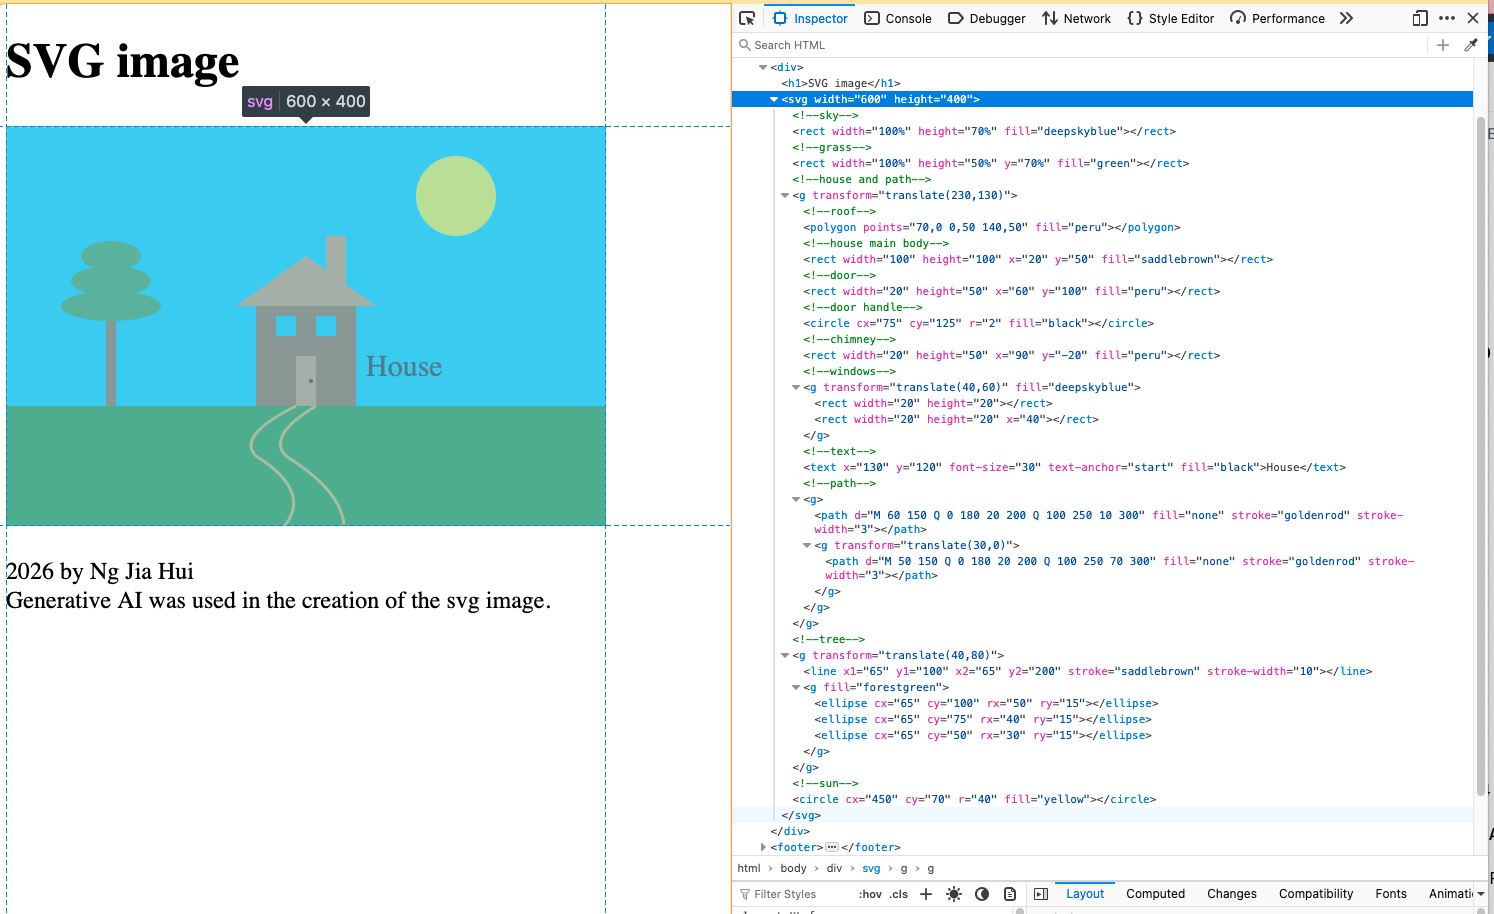
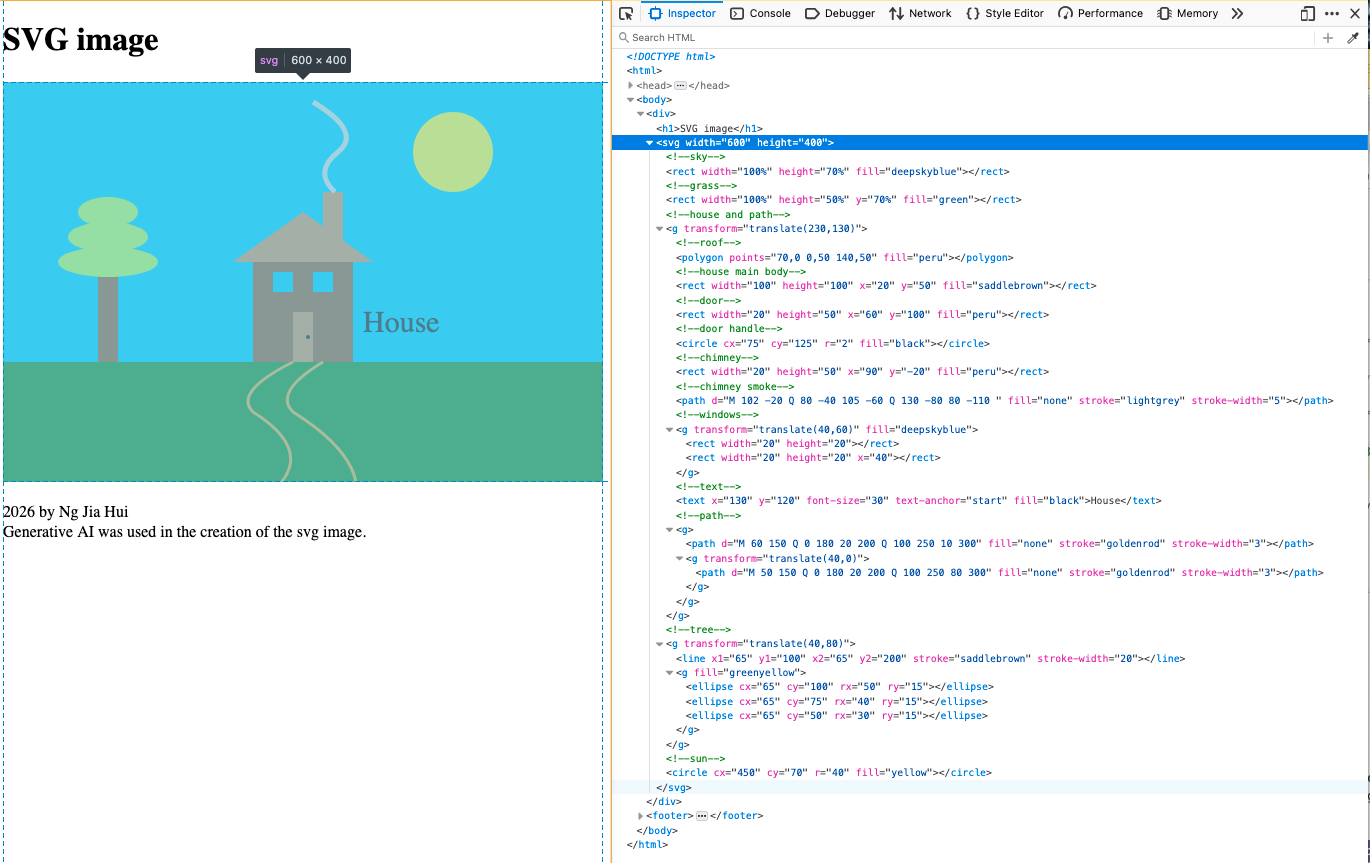
translate windows, add coordinate system and dom

Changed region(s): [[0.0, 0.0, 1.0, 1.0]]

diff --git a/Exercise 4/Exercise 4.1/index.html b/Exercise 4/Exercise 4.1/index.html
@@ -10,6 +10,52 @@
     <body>
         <div>
             <h1>SVG image</h1>
+            <h2>Base:</h2>
+            <svg width="600" height="400">  
+                <!-- sky -->
+                <rect width="100%" height="70%" fill="deepskyblue" />
+                <!-- grass -->
+                <rect width="100%" height="50%" y="70%" fill="green" />
+                <!-- house and path -->
+                <g transform="translate(230,130)">
+                    <!-- roof -->
+                    <polygon points="70,0 0,50 140,50" fill="peru" />
+                    <!-- house main body -->
+                    <rect width="100" height="100" x="20" y="50" fill="saddlebrown" />
+                    <!-- door -->
+                    <rect width="20" height="50" x="60" y="100" fill="peru" />
+                    <!-- door handle -->
+                    <circle cx="75" cy="125" r="2" fill="black" />
+                    <!-- chimney -->
+                    <rect width="20" height="50" x="90" y="-20" fill="peru" />
+                    <!-- windows -->
+                    <g transform="translate(40,60)" fill="deepskyblue">
+                        <rect width="20" height="20"  />
+                        <rect width="20" height="20" x="40" />
+                    </g>
+                    <!-- text -->
+                    <text x="130" y="120" font-size="30" text-anchor="start" fill="black">House</text> 
+                    <!-- path -->
+                    <g>
+                        <path d="M 60 150  Q 0 180 20 200   Q 100 250 10 300" fill="none" stroke="goldenrod" stroke-width="3" />
+                        <g transform="translate(30,0)">
+                            <path d="M 50 150  Q 0 180 20 200   Q 100 250 70 300" fill="none" stroke="goldenrod" stroke-width="3" />
+                        </g>
+                    </g>
+                </g>
+                <!-- tree -->
+                <g transform="translate(40,80)">
+                    <line x1="65" y1="100" x2="65" y2="200" stroke="saddlebrown" stroke-width="10" />
+                    <g fill="forestgreen" >
+                        <ellipse cx="65" cy="100" rx="50" ry="15" />
+                        <ellipse cx="65" cy="75" rx="40" ry="15" />
+                        <ellipse cx="65" cy="50" rx="30" ry="15" />     
+                    </g>
+                </g>
+                <!-- sun -->
+                <circle cx="450" cy="70" r="40" fill="yellow" />
+            </svg>
+            <h2>Customized:</h2>
             <svg width="600" height="400">  
                 <!-- sky -->
                 <rect width="100%" height="70%" fill="deepskyblue" />
@@ -31,7 +77,7 @@
                     <!-- chimney smoke -->
                     <path d="M 102 -20  Q 80 -40 105 -60 Q 130 -80 80 -110   " fill="none" stroke="lightgrey" stroke-width="5" />
                     <!-- windows -->
-                    <g transform="translate(40,60)" fill="deepskyblue">
+                    <g transform="translate(40,70)" fill="deepskyblue">
                         <rect width="20" height="20"  />
                         <rect width="20" height="20" x="40" />
                     </g>
@@ -60,6 +106,28 @@
                 <circle cx="450" cy="70" r="40" fill="yellow" />
 
             </svg>
+        </div>
+        <div>
+            <h2>SVG coordinate system</h2>
+            <p>circle:</p>
+            <img src="images/circle.png" >
+            <p>Ellipse:</p>
+            <img src="images/ellipse.png" >
+            <p>Line:</p>
+            <img src="images/line.png" >
+            <p>path:</p>
+            <img src="images/path.png" >
+            <p>Polygon:</p>
+            <img src="images/polygon.png" >
+            <p>Rectangle:</p>
+            <img src="images/rectangle.png" >
+            <p>Text:</p>
+            <img src="images/text.png" >
+        </div>
+
+        <div>
+            <h2>DOM</h2>
+            <img src="images/dom_screenshot.png" >
         </div>
         
         <footer>
